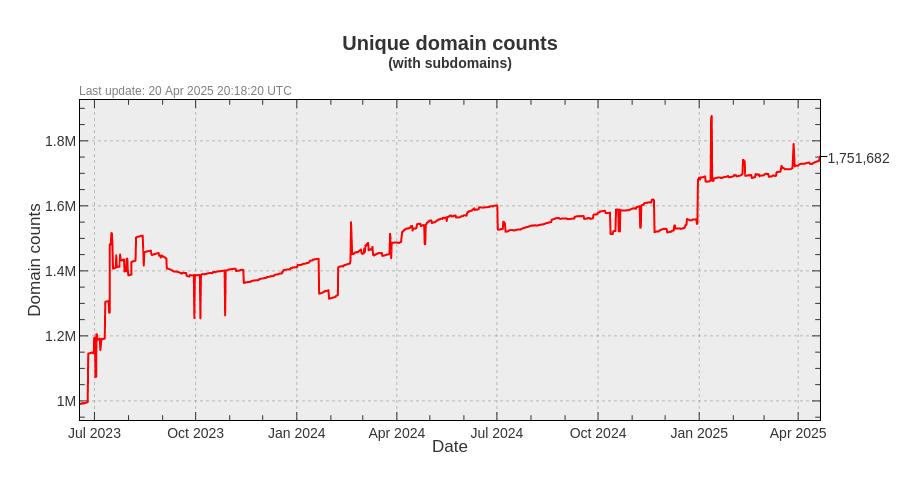
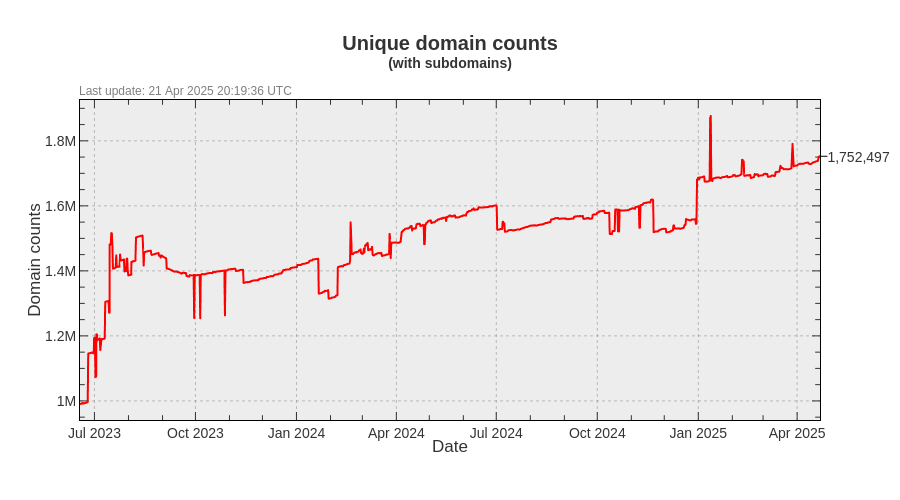
Update pages

diff --git a/README.md b/README.md
@@ -3,22 +3,22 @@ A blacklist file for blocking ads, trackers and malware domains.
 
[1 lines of base64/hex data omitted]
 
-- Unique domains: 1,751,682
-- Without subdomains: 1,137,487
-- Last update: 20 Apr 2025 20:18:20 UTC
-- Version: 2025.04.20.01
+- Unique domains: 1,752,497
+- Without subdomains: 1,138,310
+- Last update: 21 Apr 2025 20:19:36 UTC
+- Version: 2025.04.21.01
 
 
 ### Downloads:
 
 | Format             | Domain count      | Download Link |
 |:------------------ | -----------------:|:-------------:|
-| *Adblock Plus*     | 1,137,487 | [Download](https://dl.cenk.app/bad-hosts/bad-hosts-abp) |
-| *Wildcard domains* | 1,137,487 | [Download](https://dl.cenk.app/bad-hosts/bad-hosts-wildcard) |
-| *dnsmasq*          | 1,137,487 | [Download](https://dl.cenk.app/bad-hosts/bad-hosts-dnsmasq) |
-| *Unbound*          | 1,137,487 | [Download](https://dl.cenk.app/bad-hosts/bad-hosts-unbound) |
-| *hosts*            | 1,751,682 | [Download](https://dl.cenk.app/bad-hosts/hosts) |
-| *hosts (ipv6)*     | 1,751,682 | [Download](https://dl.cenk.app/bad-hosts/hosts-ipv6) |
-| *Plain domains*    | 1,751,682 | [Download](https://dl.cenk.app/bad-hosts/bad-hosts-domains) |
+| *Adblock Plus*     | 1,138,310 | [Download](https://dl.cenk.app/bad-hosts/bad-hosts-abp) |
+| *Wildcard domains* | 1,138,310 | [Download](https://dl.cenk.app/bad-hosts/bad-hosts-wildcard) |
+| *dnsmasq*          | 1,138,310 | [Download](https://dl.cenk.app/bad-hosts/bad-hosts-dnsmasq) |
+| *Unbound*          | 1,138,310 | [Download](https://dl.cenk.app/bad-hosts/bad-hosts-unbound) |
+| *hosts*            | 1,752,497 | [Download](https://dl.cenk.app/bad-hosts/hosts) |
+| *hosts (ipv6)*     | 1,752,497 | [Download](https://dl.cenk.app/bad-hosts/hosts-ipv6) |
+| *Plain domains*    | 1,752,497 | [Download](https://dl.cenk.app/bad-hosts/bad-hosts-domains) |
 
 
